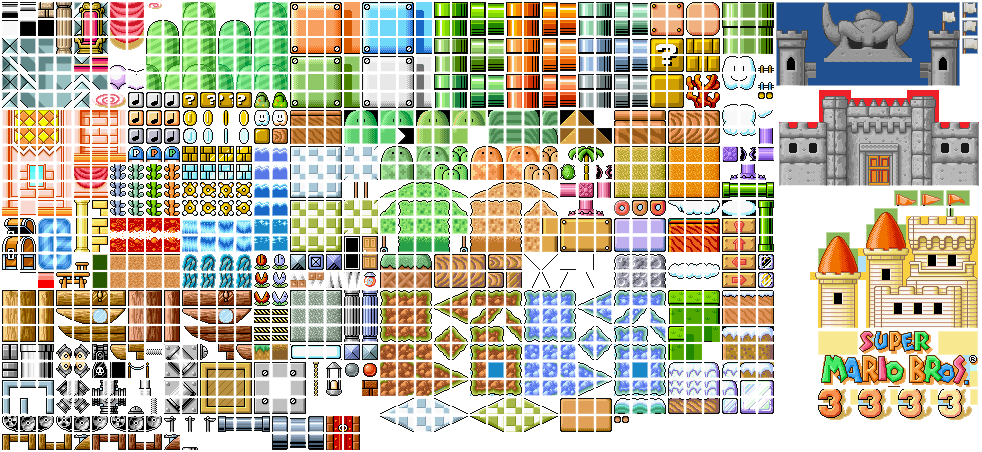
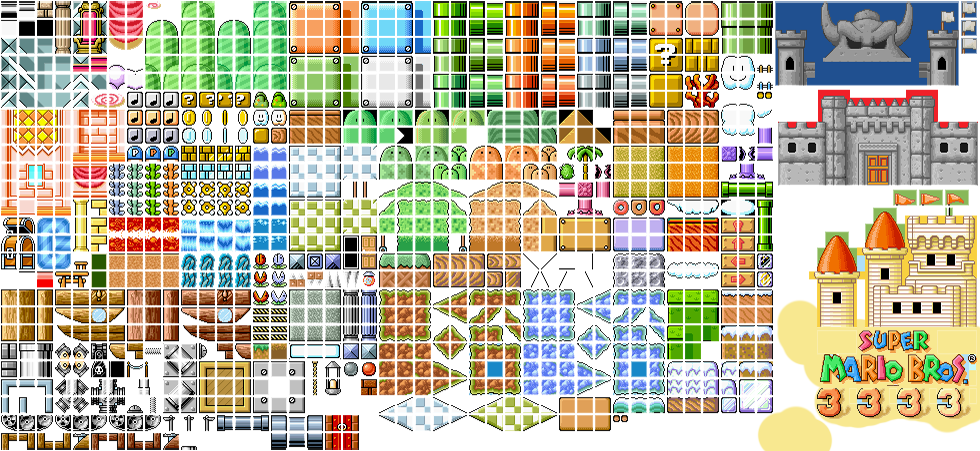
Updated resource files
Updated TitleScreen Numbers copy.png, mario3Tiles.tsx, title.png, title.tmx, Titlescreen Numbers.tsx, titletiles.tsx and sma4_tiles.png.   No size changes

diff --git a/js/entities/entities.js b/js/entities/entities.js
@@ -280,6 +280,55 @@ game.ItemBlocksEntity = me.Entity.extend({
         this._super(me.Entity, 'init', [x, y , settings]);
     }
 });
+
+//game.PirhanaPlant = me.Entity.extend({
+    /**
+     * constructor
+     */
+    
+ //   init:function (x, y, settings) {
+        // call the constructor
+        this._super(me.Entity, 'init', [x, y , settings]);
+        
+        this.body.setMaxVelocity(0,15);
+        this.body.setFriction(0.4, 0); 
+        //ensure the player is updated even when outside of the viewport
+        this.alwaysUpdate = true;
+        
+        //TODO: add an animation to player
+    },
+
+ //   /**
+     * update the entity
+     */
+ //   update : function (dt) {
+        //if(me.)
+        //{
+            //this.body.force.x = -this.body.maxVel.x;    
+        //}
+         //else
+        //{
+            this.body.force.x = this.body.maxVel.x;
+        //}
+        // apply physics to the body (this moves the entity)
+        this.body.update(dt);
+
+        // handle collisions against other shapes
+        me.collision.check(this);
+
+        // return true if we moved or if the renderable was updated
+        return (this._super(me.Entity, 'update', [dt]) || this.body.vel.x !== 0 || this.body.vel.y !== 0);
+    },
+
+ //  /**
+     * colision handler
+     * (called when colliding with other objects)
+     */
+ //   onCollision : function (response, other) {
+        // Make all other objects solid
+        return true;
+    }
+//});       
        
         
         

diff --git a/js/screens/title.js b/js/screens/title.js
@@ -1,0 +1,30 @@
+game.PlayScreen = me.ScreenObject.extend({
+    /**
+     *  action to perform on state change
+     */
+    onResetEvent: function() {
+        // reset the score
+        game.data.score = 0;
+        
+
+        
+
+        me.levelDirector.loadLevel("title");
+    //Adds blinking text - called from index.html line 19
+      <script>
+      function blinker() {
+	    $('.blinking').fadeOut(500);
+	    $('.blinking').fadeIn(500);
+    }
+    setInterval(blinker, 1000);
+      </script>
+       
+
+    /**
+     *  action to perform when leaving this screen (state change)
+     */
+    onDestroyEvent: function() {
+        // remove the HUD from the game world
+        me.game.world.removeChild(this.HUD);
+    }
+});

diff --git a/data/map/mario3Tiles.tsx b/data/map/mario3Tiles.tsx
@@ -1,4 +1,4 @@
 <?xml version="1.0" encoding="UTF-8"?>
-<tileset version="1.2" tiledversion="1.2.4" name="mario3Tiles" tilewidth="18" tileheight="18" tilecount="512" columns="32">
- <image source="mario3Tiles.png" trans="757575" width="576" height="288"/>
+<tileset version="1.2" tiledversion="1.2.4" name="TitleScreen Words" tilewidth="18" tileheight="18" tilecount="55" columns="11">
+ <image source="../img/map/TitleScreen Words.png" width="200" height="100"/>
 </tileset>

diff --git a/data/map/TitleScreen Numbers.tsx b/data/map/TitleScreen Numbers.tsx
@@ -1,6 +1,6 @@
 <?xml version="1.0" encoding="UTF-8"?>
 <tileset version="1.2" tiledversion="1.2.4" name="TitleScreen Numbers" tilewidth="16" tileheight="16" tilecount="60" columns="15">
- <image source="TitleScreen Numbers.png" width="255" height="66"/>
+ <image source="../../../../../Desktop/MarioProjectWorkFiles/TitleScreen Numbers.png" width="255" height="66"/>
  <tile id="0">
   <animation>
    <frame tileid="0" duration="100"/>

diff --git a/js/screens/StartScreen.js b/js/screens/StartScreen.js
@@ -4,7 +4,7 @@ game.StartScreen = me.ScreenObject.extend({
      */
     onResetEvent: function() {
         
-        me.levelDirector.loadLevel("");
+        me.levelDirector.loadLevel("title");
 
         // Add our HUD to the game world, add it last so that this is on top of the rest.
         // Can also be forced by specifying a "Infinity" z value to the addChild function.

diff --git a/js/game.js b/js/game.js
@@ -35,6 +35,7 @@ var game = {
         me.pool.register("Coins", game.CoinEntity);
         me.pool.register("Turtle", game.KoopaEntity);
         me.pool.register("ItemBlocks", game.ItemBlocksEntity);
+        //me.pool.register("PirhanaPlant", game.PirhanaPlantEntity);
         
         //enable the keyboard
         me.input.bindKey(me.input.KEY.LEFT, "left");

diff --git a/data/map/titletiles.tsx b/data/map/titletiles.tsx
@@ -1,4 +1,4 @@
 <?xml version="1.0" encoding="UTF-8"?>
 <tileset version="1.2" tiledversion="1.2.4" name="sma4_tiles" tilewidth="18" tileheight="18" tilecount="1350" columns="54">
- <image source="sma4_tiles.png" width="980" height="451"/>
+ <image source="../../../../../Desktop/MarioProjectWorkFiles/sma4_tiles.png" width="980" height="451"/>
 </tileset>
